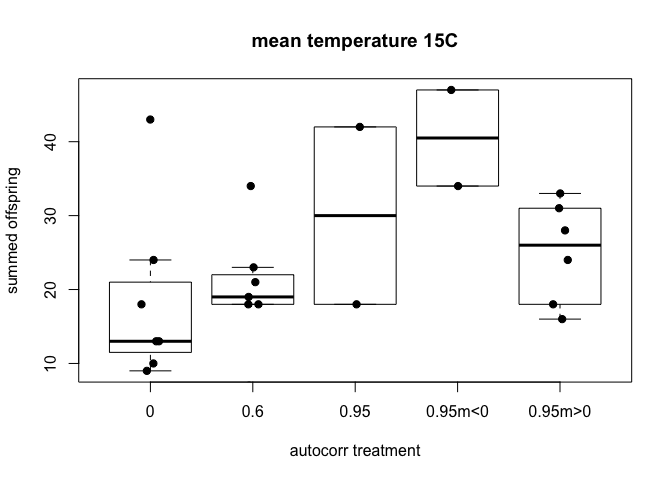
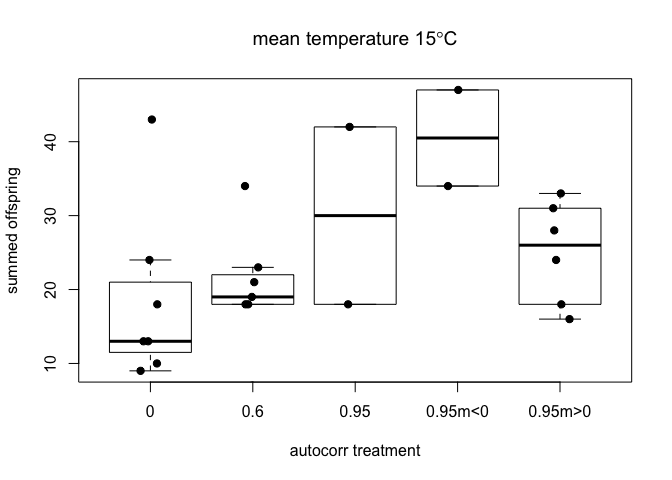
add degree symbols

diff --git a/simpleanovathermal.md b/simpleanovathermal.md
@@ -1,6 +1,6 @@
-Anova for the pea-aphid experiment at 15 C - autocorrelated temperatures
+Anova for the pea-aphid experiment at 15°C - autocorrelated temperatures
 ================
-Kim based on tidyverse dependent code from Jon, Champ, Sunandan, Debora
+Kim: based on tidyverse dependent code from Jon, Champ, Sunandan, Debora
 10/08/2021
 
 ### Purpose
@@ -35,7 +35,7 @@ str(datin)
 
 ### Complete any data manipulations
 
-Create new data frame including only mean temp of 15C, remove 0.9
+Create new data frame including only mean temp of 15°C, remove 0.9
 autocorrelation treatments, and check
 
 ``` r
@@ -101,7 +101,7 @@ dat$sumOff=dat$Offspring_Plant1+dat$Offspring_Plant2+dat$Offspring_Plant3
 ### Plot
 
 ``` r
-tr=boxplot(sumOff~label, data=dat,main="mean temperature 15C",outline=FALSE,
+tr=boxplot(sumOff~label, data=dat,main=expression(paste("mean temperature 15",degree,"C")),outline=FALSE,
            xlab="autocorr treatment", ylab="summed offspring",
   names = levels(as.factor(dat$label)))
 
@@ -112,10 +112,6 @@ stripchart(sumOff~label, data=dat,
 
 ![Boxplot of mean=15C
 treatments](simpleanovathermal_files/figure-gfm/box-1.png)
-
-``` r
-         #  col = 1:length(levels(dat$labels)))
-```
 
 ### Stats
 
@@ -152,12 +148,12 @@ Adding a table of results for Jorren’s benefit
 
 ``` r
  library(kableExtra)
-kable_classic(kable(summary(l1)$coefficients,caption="Anova results for meant 15C treatments"))
+kable_classic(kable(summary(l1)$coefficients,caption="Anova results for mean 15&deg;C treatments"))
 ```
 
 <table class=" lightable-classic" style="font-family: &quot;Arial Narrow&quot;, &quot;Source Sans Pro&quot;, sans-serif; margin-left: auto; margin-right: auto;">
 <caption>
-Anova results for meant 15C treatments
+Anova results for mean 15°C treatments
 </caption>
 <thead>
 <tr>
